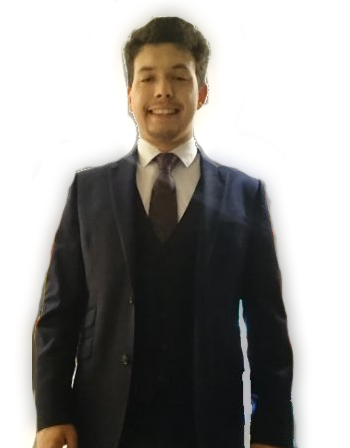
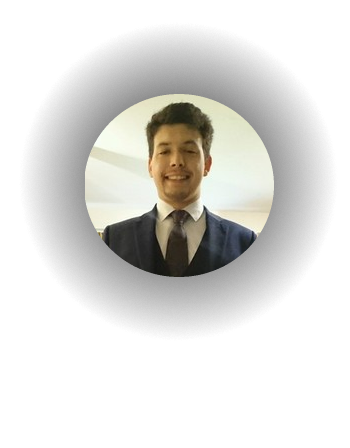
updated profile image and text alignment for mobile

diff --git a/index.html b/index.html
@@ -114,7 +114,7 @@
                             </div>
                             <div class="col-sm-6">
                                 <div class="author_text text-left">
-									<h1 class="wow fadeInDown"><class="text-black">Jack Edwards</h1>
+									<h1 class="wow fadeInDown">Jack Edwards</h1>
                                     <h3 class="wow fadeInUp">Cyber Security Developer</h3>
                                 </div>
                             </div>
